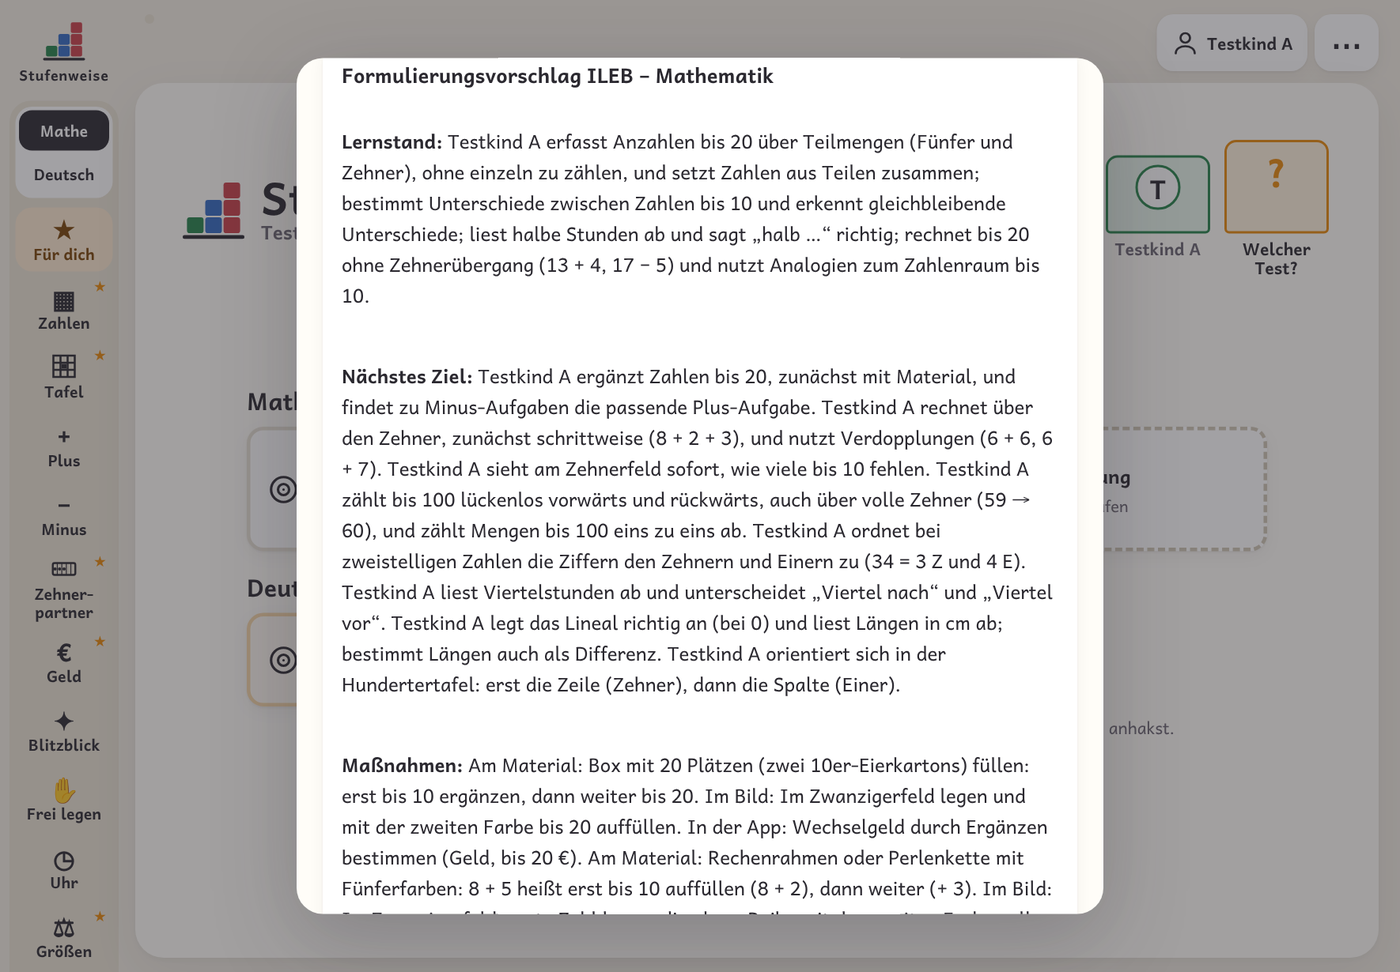
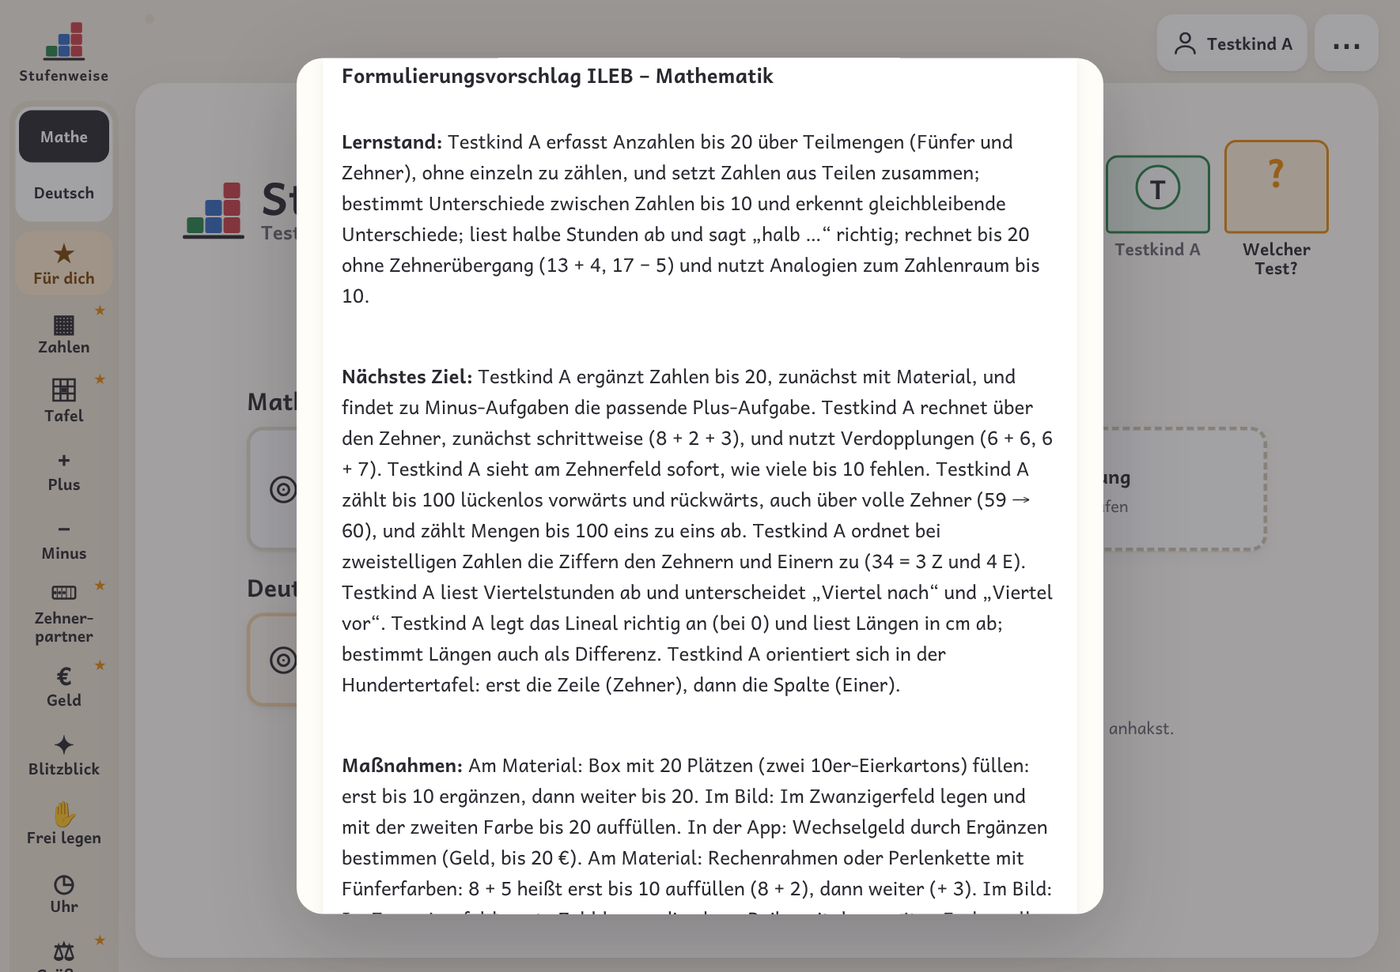
0.33.0: Konzentrationsmodus für Kinder und Punkte aus dem Usability-Review
Beim Üben nur Aufgabe, Fortschritt, Weiter und Pause; Zählaufgabe bei
Zahlen; Wechselgeld mit einem Satz; Rundenende, Startseite, Uhr,
Materialkiste, Lernstand-Sprungmarken, Druckhilfe; Anleitung und Bilder.

Claude-Session: https://claude.ai/code/session_01EfzymwcCT74kCf4Hq4zjqh

Changed region(s): [[0.0307, 0.463, 0.0921, 1.0], [0.0, 0.1235, 0.0921, 0.4321]]

diff --git a/index.html b/index.html
@@ -10043,7 +10043,7 @@ document.addEventListener('change', e => { const c = e.target.closest('[data-sub
 document.addEventListener('change', e => { const s = e.target.closest('[data-guide-pid]'); if(!s) return; const p = data.profiles.find(x => x.id === s.dataset.guidePid); if(p){ p.guide = s.value || undefined; saveData(); render(); } });
 
 /* ---------- Rückmeldung (Testphase): Art, Schwere, Text + automatischer Kontext → E-Mail ---------- */
-const APP_VERSION = '0.32.0 · 23.11.2026';
+const APP_VERSION = '0.33.0 · 24.11.2026';
 /* Danke-Seite: Namen nur mit Einverständnis eintragen, z. B. 'Vorname Nachname (Schule)' */
 const THANKS = [];
 const FB_REPO = 'https://github.com/Steffinuss/stufenweise';

diff --git a/tests/anleitung_bilder.py b/tests/anleitung_bilder.py
@@ -35,7 +35,7 @@ async def main():
         await pg.click('#padd button[type=submit]'); await pg.wait_for_timeout(300)
         await pg.click('#dlg-profile [data-close]'); await pg.wait_for_timeout(200)
         # Testen: Startseite → Testen → Kind → Test (seit 0.29.0 ein eigener Eingang)
-        await pg.click('#btn-home'); await pg.wait_for_timeout(300)
+        await pg.evaluate('goHome()'); await pg.wait_for_timeout(300)
         if await pg.locator('[data-ctx-reset]').count(): await pg.click('[data-ctx-reset]'); await pg.wait_for_timeout(300)
         await pg.click('[data-ctx-test]'); await pg.wait_for_timeout(300)
         await pg.click('[data-home-pick]'); await pg.wait_for_timeout(300)
@@ -74,11 +74,12 @@ async def main():
         await scrollto('^Förderzone'); await shot('09_foerderzone')
         await scrollto('ILEB'); await shot('10_ileb')
         await pg.click('#dlg-stats [data-close]'); await pg.wait_for_timeout(300)
-        await pg.click('#btn-home'); await pg.wait_for_timeout(300)
+        await pg.evaluate('goHome()'); await pg.wait_for_timeout(300)
         if await pg.locator("[data-ctx='practice']").count(): await pg.click("[data-ctx='practice']"); await pg.wait_for_timeout(300)
         if await pg.locator('[data-home-pick]').count(): await pg.click('[data-home-pick]'); await pg.wait_for_timeout(300)
         await shot('11_heute', 500, hl='.home-card')
         await pg.click('.home-card'); await shot('12_ueben', 600)
+        if await pg.locator('#fk-pause:visible').count(): await pg.click('#fk-pause'); await pg.wait_for_timeout(300)   # Konzentrationsmodus: Menü erst nach „Pause“
         await pg.click('#btn-more'); await pg.click('#btn-sheet'); await pg.wait_for_timeout(900)
         await pg.evaluate("const b=[...document.querySelectorAll('#dlg-sheet button')].find(b=>b.textContent.trim()==='Drucken'); b.id='hl-print'; b.scrollIntoView({block:'center', behavior:'instant'})"); await pg.wait_for_timeout(600)
         await shot('13_arbeitsblatt', 500, hl='#hl-print')
@@ -93,7 +94,7 @@ async def main():
         await shot('15_lizenz')
         # Materialkiste (seit 0.30.0): Startseite → Materialkiste → Kind → Taschenrechner mit Ergebnis als Material
         await pg.keyboard.press('Escape'); await pg.wait_for_timeout(200)
-        await pg.click('#btn-home'); await pg.wait_for_timeout(300)
+        await pg.evaluate('goHome()'); await pg.wait_for_timeout(300)
         if await pg.locator('[data-ctx-reset]').count(): await pg.click('[data-ctx-reset]'); await pg.wait_for_timeout(300)
         await pg.click('[data-ctx-kiste]'); await pg.wait_for_timeout(200)
         if await pg.locator('.home-names [data-home-pick]').count(): await pg.click('.home-names [data-home-pick]:not([data-home-pick=""])'); await pg.wait_for_timeout(200)

diff --git a/BACKLOG.md b/BACKLOG.md
@@ -4,7 +4,7 @@ Geplante Entwicklungsaufgaben für Stufenweise. Begonnenes steht in `IN_PROGRESS
 
 Regeln (Stand 17.11.2026): Der Funktionsumfang von `main` ist eingefroren, weil die App an Schulen genutzt wird. Neues entsteht nur im Zweig `entwicklung`, wird in der Testversion gezeigt und erst nach Stefans OK freigegeben (`docs/entwicklung.md`). Didaktische Entscheidungen trifft Stefan.
 
-Stand: 23.11.2026 (0.32.0)
+Stand: 24.11.2026 (0.33.0)
 
 ## Vorgeschlagene Reihenfolge
 
@@ -17,7 +17,7 @@ Stand: 23.11.2026 (0.32.0)
 | 4 | ~~**D** Materialkiste (Hilfen für Schüler*innen)~~ | mittel | freigegeben in 0.30.0 (20.11.2026), siehe `CHANGELOG.md` |
 | 5 | ~~**E** QR-Umzug schneller (+ Fehler F2)~~ | mittel | freigegeben in 0.31.0 (23.11.2026), zusammen mit F3 (Druck wie Vorschau), siehe `CHANGELOG.md` |
 | 6 | ~~**G** Hundertertafel-Blätter: Bezug zur Tafel sichtbar (+ Heft zur Förderzone)~~ | klein | freigegeben in 0.32.0 (23.11.2026), siehe `CHANGELOG.md` |
-| 7 | **H** Konzentrationsmodus für Kinder (+ Usability-Review) | klein bis mittel | gebaut in `entwicklung` (24.11.2026), wartet auf Stefans OK in der Testversion |
+| 7 | ~~**H** Konzentrationsmodus für Kinder (+ Usability-Review)~~ | klein bis mittel | freigegeben in 0.33.0 (24.11.2026), siehe `CHANGELOG.md` |
 
 Alternative: B zuerst als schneller Gewinn, während Stefan den Basis-Test ausprobiert.
 
@@ -25,7 +25,7 @@ Alternative: B zuerst als schneller Gewinn, während Stefan den Basis-Test auspr
 
 ## H: Konzentrationsmodus für Kinder
 
-**Status:** gebaut in `entwicklung` (24.11.2026), Testversion; wartet auf Stefans OK.
+**Status:** erledigt, freigegeben in 0.33.0 (24.11.2026).
 **Anlass (Stefan, 24.11.):** Beim Wechselgeld ist der Bildschirm sehr voll. Idee: eine Art „Fullscreen-Modus“, damit sich Kinder nur auf die Aufgabe konzentrieren.
 **Befund (Usability-Review 24.11., Dokument „Stufenweise – Usability-Review“, claude.ai/artifact/AdqPQacwdjd3vDwH9zfaQx):** Wechselgeld auf dem iPad: 30 Knöpfe sichtbar, 7 gehören zur Aufgabe; vier Anweisungen gleichzeitig; Rechnung „10 € − 7 €“ zum Auftrag „Ergänze“.
 **Vorschlag:** Bereichsleiste, Einstellleiste, Name und Menü ausblenden; ein Satz Auftrag, Tipp erst nach Fehlversuch; Fortschritt groß („3 von 10“); Knopf „Pause“ zurück zu „Heute für dich“; Einstellung wie „Geführte Oberfläche“ (alle oder einzelne Kinder), Lehrkraft mit PIN. Bausteine vorhanden (Leiste ausblenden, abgedunkelte Leiste im Test, PIN, Runden).

diff --git a/CHANGELOG.md b/CHANGELOG.md
@@ -5,6 +5,10 @@ Versionen: Hauptversion.Nebenversion.Korrektur (Korrektur = Fehlerbehebung, Nebe
 
 ## Unveröffentlicht (Zweig `entwicklung`, Testversion)
 
+- noch nichts
+
+## 0.33.0 – 24.11.2026
+
 Neu (Backlog H, Usability-Review vom 24.11.2026, Stefans Antworten im Dokument):
 - **Konzentrationsmodus** für alle Kinder, Standard an (Einstellungen → Kinder): Beim Üben sind Leiste, Einstellleiste, Name und Menü ausgeblendet. Oben stehen „Aufgabe 3 von 10“ mit Punkten, „Weiter“ (erst nach der Lösung oder nach zwei Fehlversuchen) und „Pause“ (zurück zur Startseite). Das Zahnrad zeigt mit der PIN alles bis zur Pause. Auch auf der Startseite keine Leiste. Nicht im Unterricht, im Test und in der Materialkiste.
 - **Zahlen mit Material im Konzentrationsmodus = Zählaufgabe:** Die Zahl und die Ziffern erscheinen erst, wenn das Kind richtig gezählt hat (vorher stand bei „Wie viele sind es? Zähle nach.“ die Zahl schon da). Im Lernstand als „Zahlen: Mengen abzählen“.
@@ -17,6 +21,7 @@ Geändert:
 - Uhr: „Volle Stunden“ und „Halbe Stunden“ ausgeschrieben; der Pfeil oben heißt „Neue Aufgabe“.
 - Umschalter Mathe/Deutsch 44 px hoch; Materialkiste: „Kiste zu“ statt „Fertig“, Taschenrechner ohne Material in der Mitte.
 - Lernstand: Sprungmarken je Fach oben; Arbeitsblätter: Druckhilfe aufklappbar („Probleme beim Drucken?“).
+- Anleitung: Abschnitt „Konzentrationsmodus“, Bilder neu.
 
 ## 0.32.0 – 23.11.2026
 

diff --git a/IN_PROGRESS.md b/IN_PROGRESS.md
@@ -5,4 +5,4 @@ Arbeitsweise mit zwei Zweigen: `docs/entwicklung.md`.
 
 Stand: 23.11.2026
 
-Gerade nichts in Arbeit. Hundertertafel-Blätter und Heft zur Förderzone mit Optionen (Backlog G) sind mit 0.32.0 freigegeben (siehe `CHANGELOG.md`).
+Gerade nichts in Arbeit. Konzentrationsmodus und Punkte aus dem Usability-Review (Backlog H) sind mit 0.33.0 freigegeben (siehe `CHANGELOG.md`).
